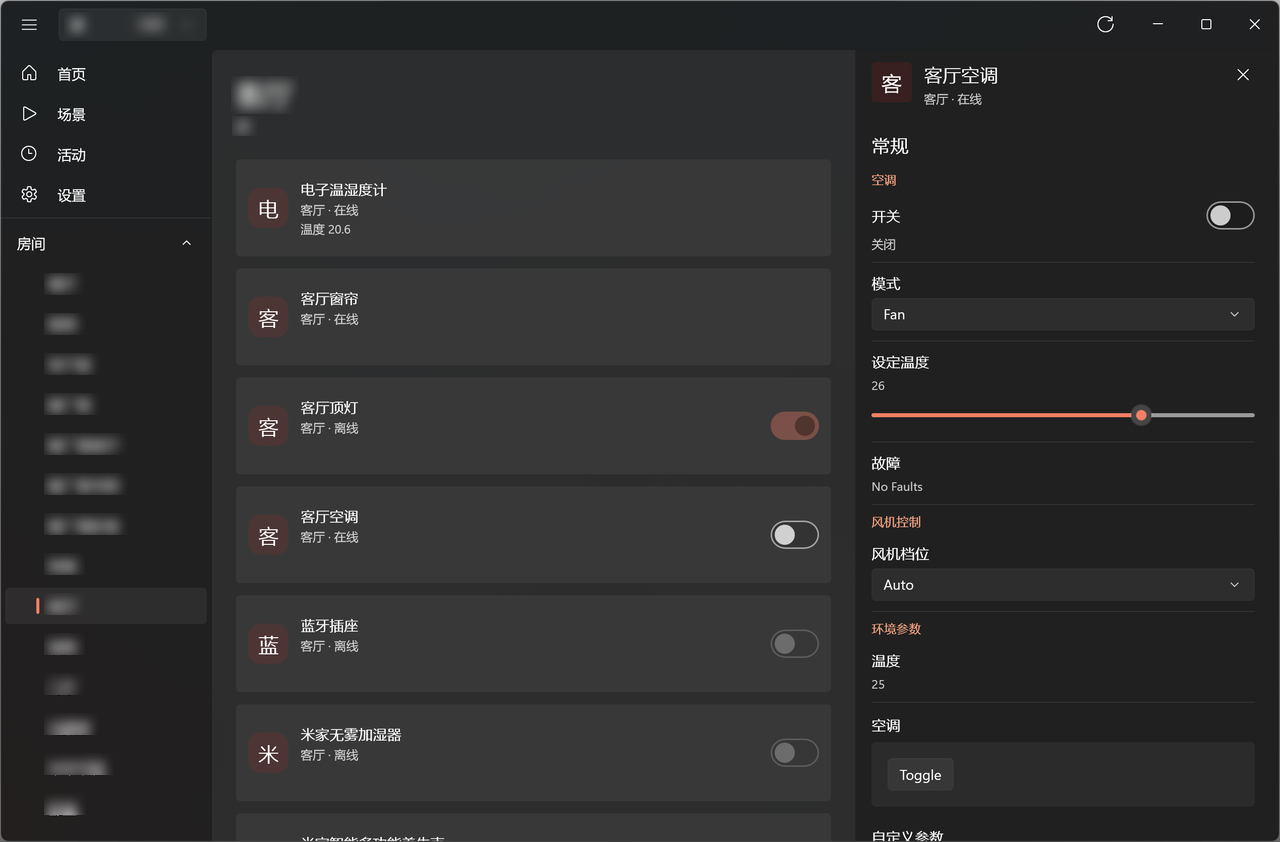
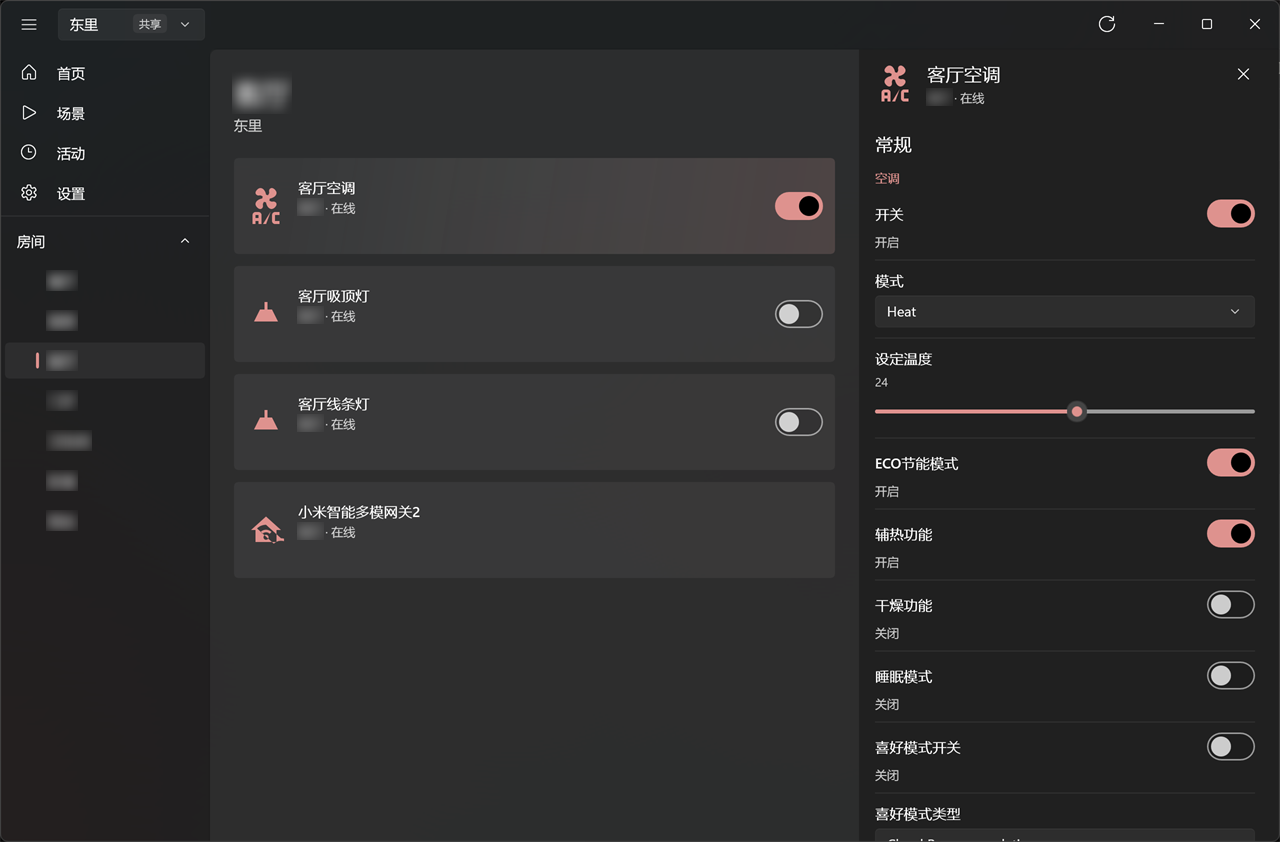
docs: refresh README and screenshots for 1.0
Add the wordmark banner, describe category icons, appearance settings and switch-channel classification, record the appearance.json location and the MDI license, and note that 0.1.x data is not migrated to the packaged identity.

Replace the six screenshots with the current UI; room names are blurred.

diff --git a/README.md b/README.md
@@ -2,9 +2,13 @@
 
 [English](README.md) | [简体中文](README.zh-CN.md)
 
+![MiHouse](docs/images/banner.png)
+
 MiHouse is an unofficial, local-first Windows desktop client for Xiaomi Mi Home accounts, built with WinUI 3 and .NET 10. It speaks the account, cloud and miot-spec protocols used by the official Android app, which were reverse-engineered for this project. It is not affiliated with, endorsed by, or supported by Xiaomi.
 
-The UI is generated from miot-spec metadata instead of the official plugins, so device support follows the published spec rather than the Mi Home plugin catalog. The project is early-stage; the list below is the implemented surface, not a roadmap.
+The UI is generated from miot-spec metadata instead of the official plugins, so device support follows the published spec rather than the Mi Home plugin catalog. The list below is the implemented surface for 1.0, not a roadmap.
+
+**Upgrading from 0.1.x.** Version 1.0 runs with package identity and keeps its data inside the package data folders. The session and appearance settings of an unpackaged 0.1.x run are not migrated, so sign in once and set your appearance again.
 
 ![MiHouse home dashboard](docs/images/home.png)
 
@@ -12,7 +16,10 @@ The UI is generated from miot-spec metadata instead of the official plugins, so 
 
 - **Sign-in.** QR code or Xiaomi account password. The session is protected with Windows DPAPI for the current user and restored on the next launch. Password sign-in rejects accounts that require two-factor authentication; use the QR flow for those.
 - **Homes and rooms.** Owned and shared homes, room membership, and a home switcher in the title bar.
-- **Device tiles.** Online state, monogram, power control, and sensor readings on room and category pages; the home dashboard summarises the same devices by class.
+- **Device tiles.** Online state, category icon, power control, and sensor readings on room and category pages; the home dashboard summarises the same devices by class.
+- **Category icons.** Every miot-spec class maps to a Material Design Icons glyph. Icons follow the app accent color, or render in a neutral shade when colored icons are turned off.
+- **Appearance.** System, light or dark theme; the accent color comes from Windows or from a custom picker, and colored icons and motion can be switched off. Choices persist in `appearance.json` and apply without a restart.
+- **Switch channels.** A wall-switch channel that Mi Home marks as a light (cloud `subclass_id`) joins the light class. A switch body whose first channel already has its own row is hidden from room pages, so that channel is not controlled twice.
 - **Tri-state class switches.** Each device category shows on, off, or partial. Applying a state targets only controllable online members; offline and read-only devices are skipped.
 - **Scenes.** Manual scenes for the selected home; disabled scenes are labelled and every run asks for confirmation.
 - **Device details.** Spec-driven properties in normal and advanced sections, with boolean, enum, range and text editors. Edits are written immediately, then verified by a re-read; the optimistic value is marked unconfirmed until the device reports it, bounded to 12 seconds, after which the next successful read wins. Actions also require confirmation.
@@ -57,6 +64,7 @@ winapp package src\MiHouse.App\MiHouse.App.csproj -c Release --arch x64 --arch a
 
 - **Session.** `%LOCALAPPDATA%\Packages\<PackageFamilyName>\LocalState\session.dat`, a JSON payload encrypted with DPAPI (`DataProtectionScope.CurrentUser`). Signing out deletes it; a corrupt file is treated as signed out.
 - **Caches.** miot-spec documents live in `%LOCALAPPDATA%\Packages\<PackageFamilyName>\LocalCache\spec`, keyed by SHA-256. Warm-start snapshots live in `%LOCALAPPDATA%\Packages\<PackageFamilyName>\LocalCache\snapshots\<userId>`. All persisted data stays inside the package data folders, so uninstalling the package removes it.
+- **Appearance.** `%LOCALAPPDATA%\Packages\<PackageFamilyName>\LocalState\appearance.json`: plain JSON holding the theme mode, accent source and color, colored-icon and motion switches.
 - **Network.** Sign-in talks to `account.xiaomi.com` and `sts.api.io.mi.com`; signed API calls go to `api.io.mi.com` or `<region>.api.io.mi.com`; spec definitions come from `miot-spec.org`. LAN control sends miIO UDP packets directly to the device. No telemetry or analytics is implemented.
 - **Capabilities.** The package declares only `internetClient` (cloud HTTPS) and `privateNetworkClientServer` (miIO UDP to LAN devices and local DNS). It holds no broad system-resource permission such as `runFullTrust`.
 - **Crash logs.** `%LOCALAPPDATA%\Packages\<PackageFamilyName>\LocalState\logs\crash-*.log`, newest 20 kept. The format is a whitelist: timestamp, app version, source, exception type, inner-exception type names, a reflection-built stack, and `<not recorded>` in place of any message.
@@ -89,3 +97,5 @@ More detail: `docs/architecture.md`, `docs/protocol-notes.md`, `docs/build.md`.
 ## License
 
 Released under the **GNU General Public License v3.0 or later** (GPL-3.0-or-later); the full text is in [`LICENSE`](LICENSE). Modified versions must be distributed under the same license with corresponding source. The project comes with no warranty. `MiHouse` and its Chinese name `米耗子` are not affiliated with Xiaomi; Xiaomi and Mi Home are trademarks of their respective owners.
+
+Device category icons come from Material Design Icons (Apache-2.0, Pictogrammers). The license text and the list of glyphs ship with the package; see [`THIRD-PARTY-NOTICES.md`](THIRD-PARTY-NOTICES.md).
